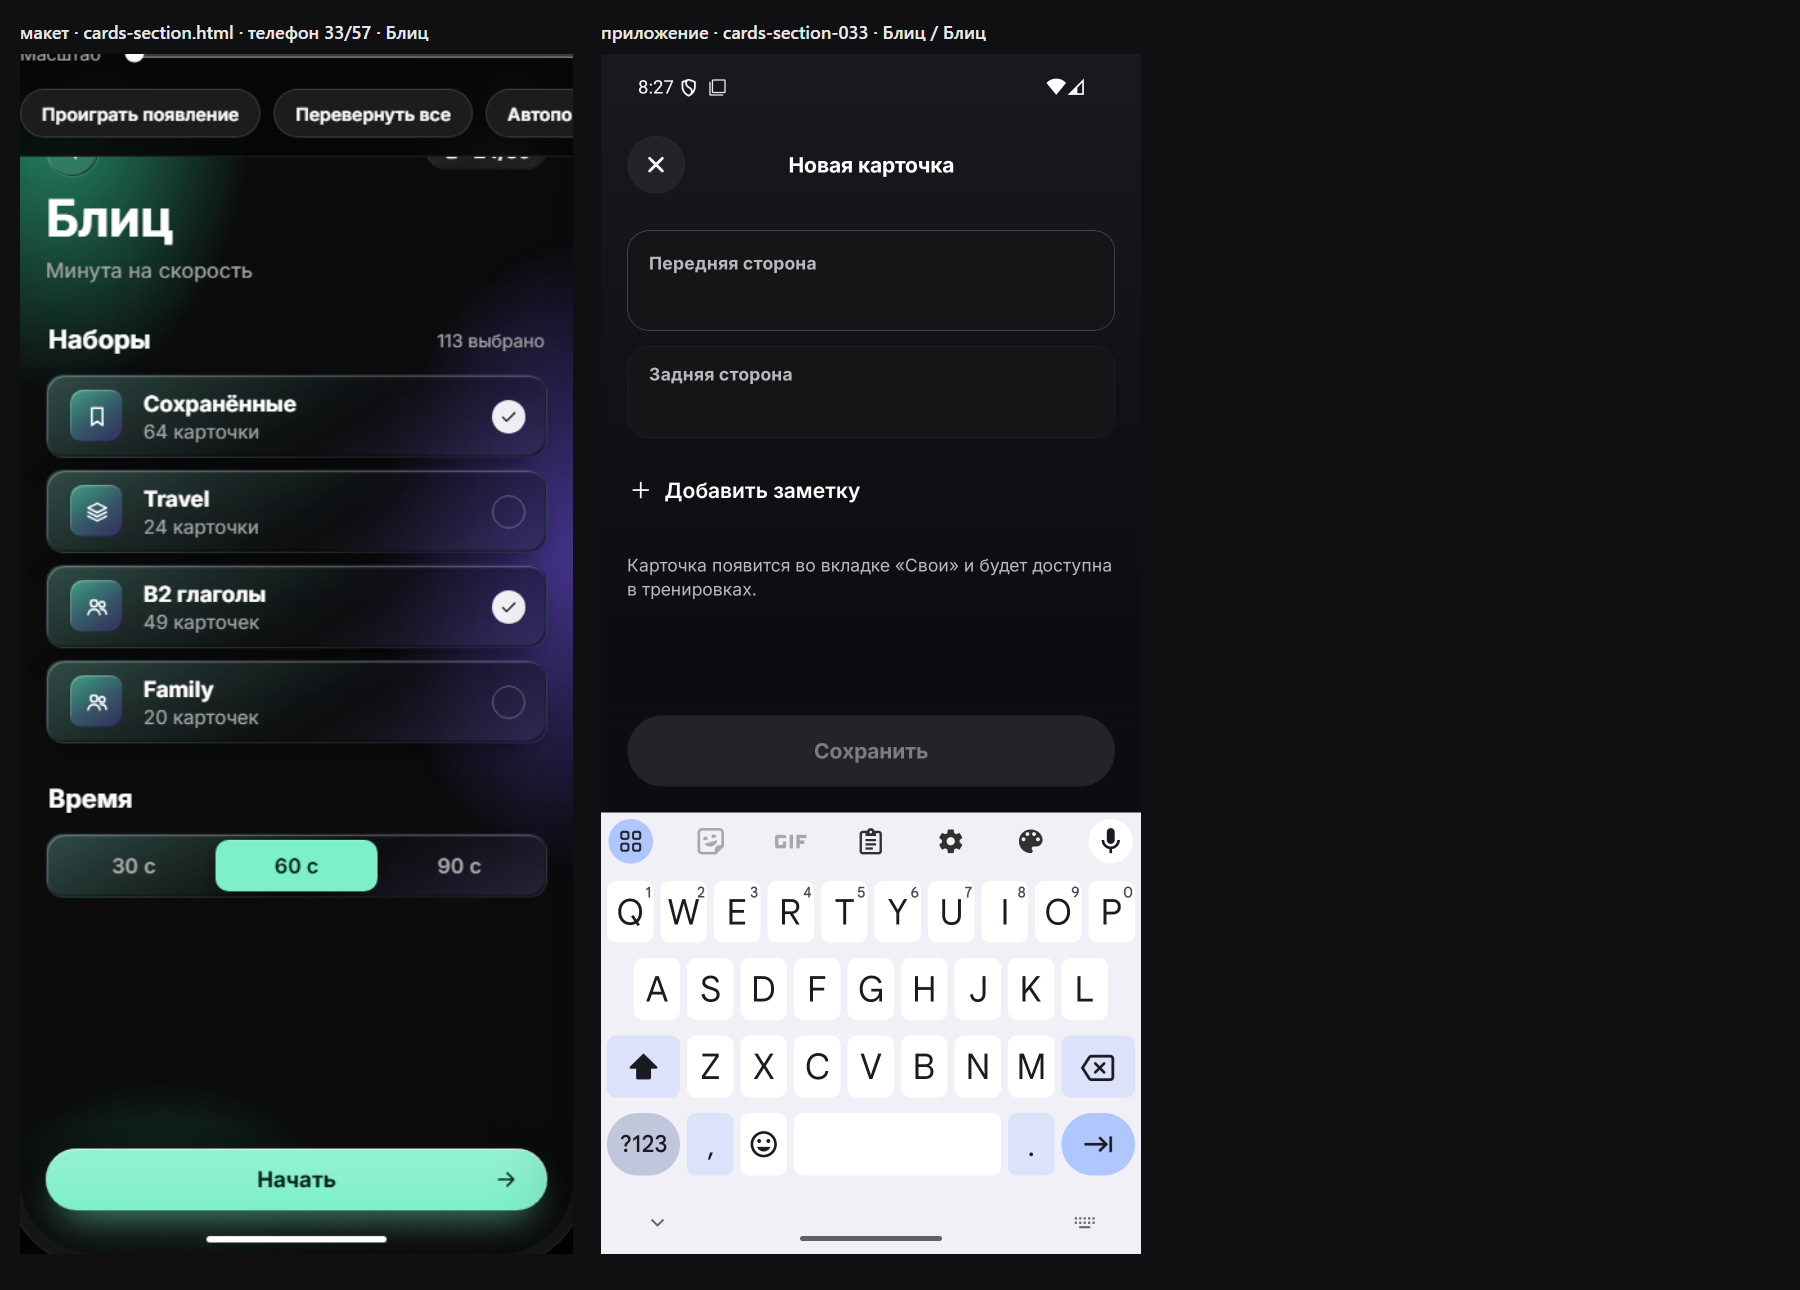
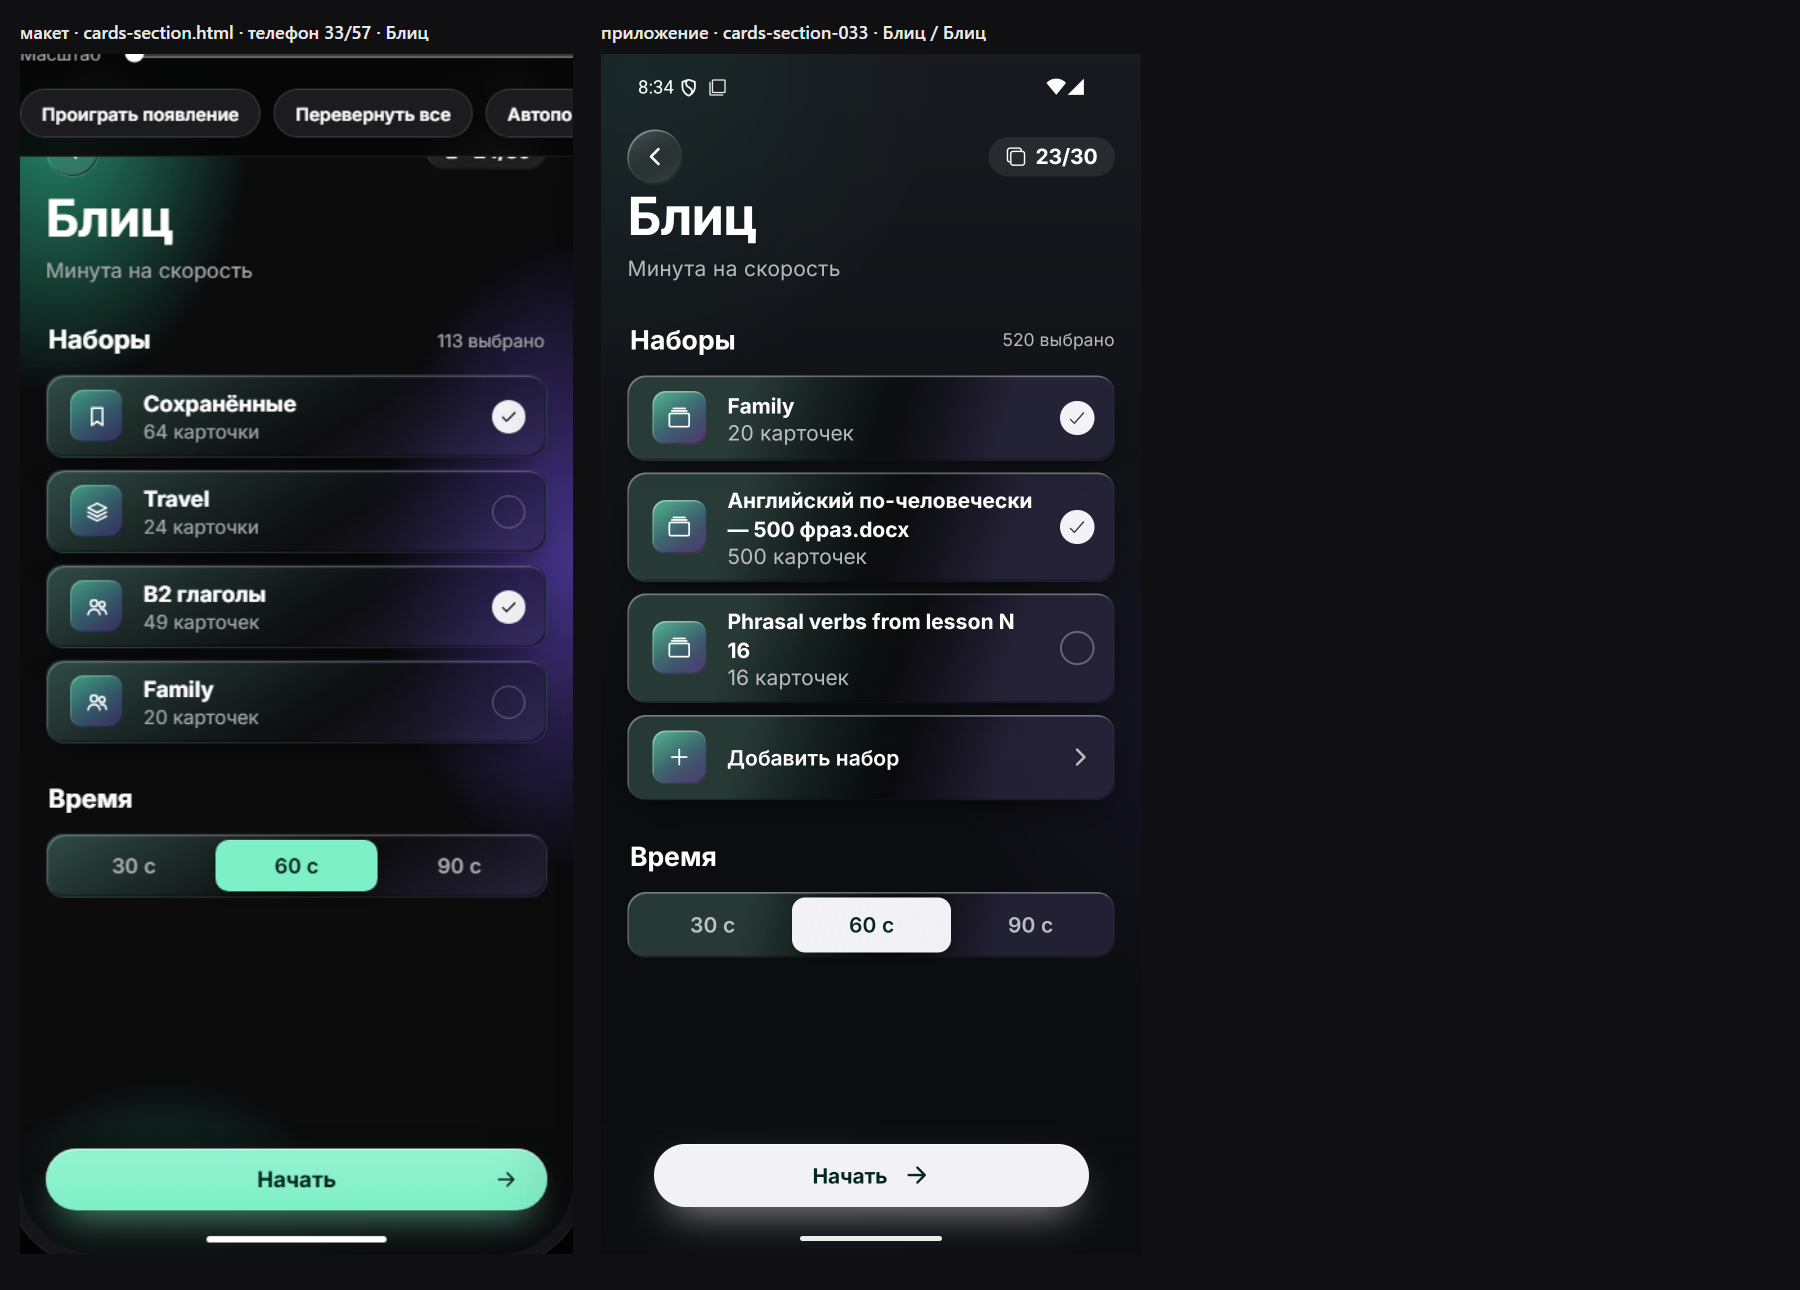
docs(parity): cards-section-033 Блиц и Устно — обе темы

diff --git a/docs/phraseman-2.0/INBOX_COORDINATOR_FROM_SVERKA.md b/docs/phraseman-2.0/INBOX_COORDINATOR_FROM_SVERKA.md
@@ -426,3 +426,5 @@ cards-section-032 после 1d993b5c4 почти совпадает (шторк
 - **cards-section-001 (светлая): ✅ ИСПРАВЛЕНО** — «Boarding pass» и транскрипция теперь тёмные на серебристой карточке, читаются (a923b862f подтверждён). Кнопка «Тренироваться» тёмная (в тёмной теме белая — от темы), плитки серебристые, значки тёмные. Вердикт по цвету от темы: совпал. `LIGHT_cards-section-001.png`.
 - **video-001 (светлая): ✅** пилюля «EN» горизонтальная, заголовок/вкладки/карточка премьеры/«Присоединиться» (тёмная) читаются, панель вкладок светлая. Вердикт по цвету от темы: совпал. Отличия вёрстки те же, что в тёмной (нет «Все видео», селектор канала). `LIGHT_video-001.png`.
 - cards-section-033 (Блиц) в светлой: маршрут `flashcards_collection` ведёт в «Сохранённые» (пусто), не в Блиц — Блиц открываю через шторку тренировки тапом «Блиц».
+
+- **cards-section-033 (Блиц-настройка), обе темы: совпала** по форме/составу/порядку; белая «Начать» и данные — с пометкой. Настройка «Устно» — так же. Эмулятор сейчас в тёмной «Авроре». Дальше: диалоги «Удалить»/выбор, теория, каталог наборов с холодного входа.
